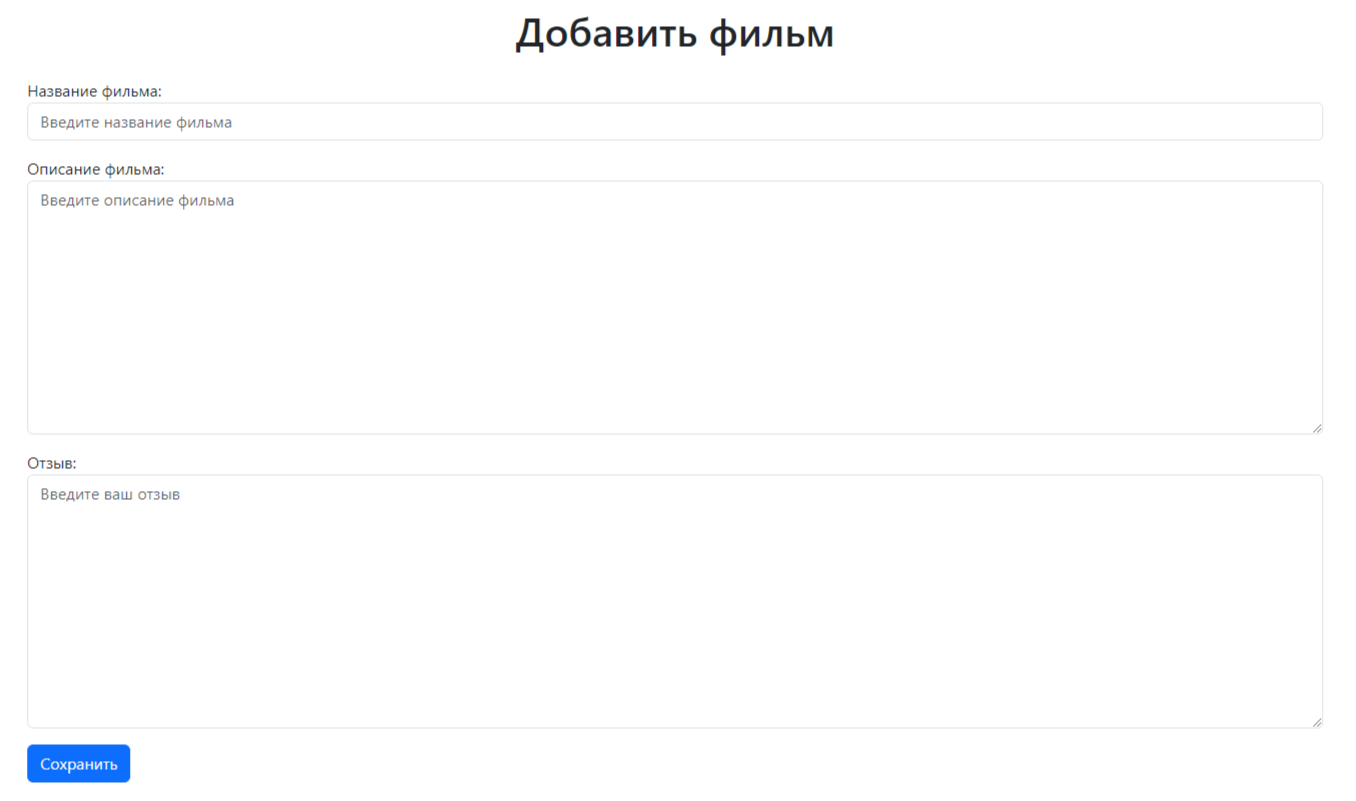
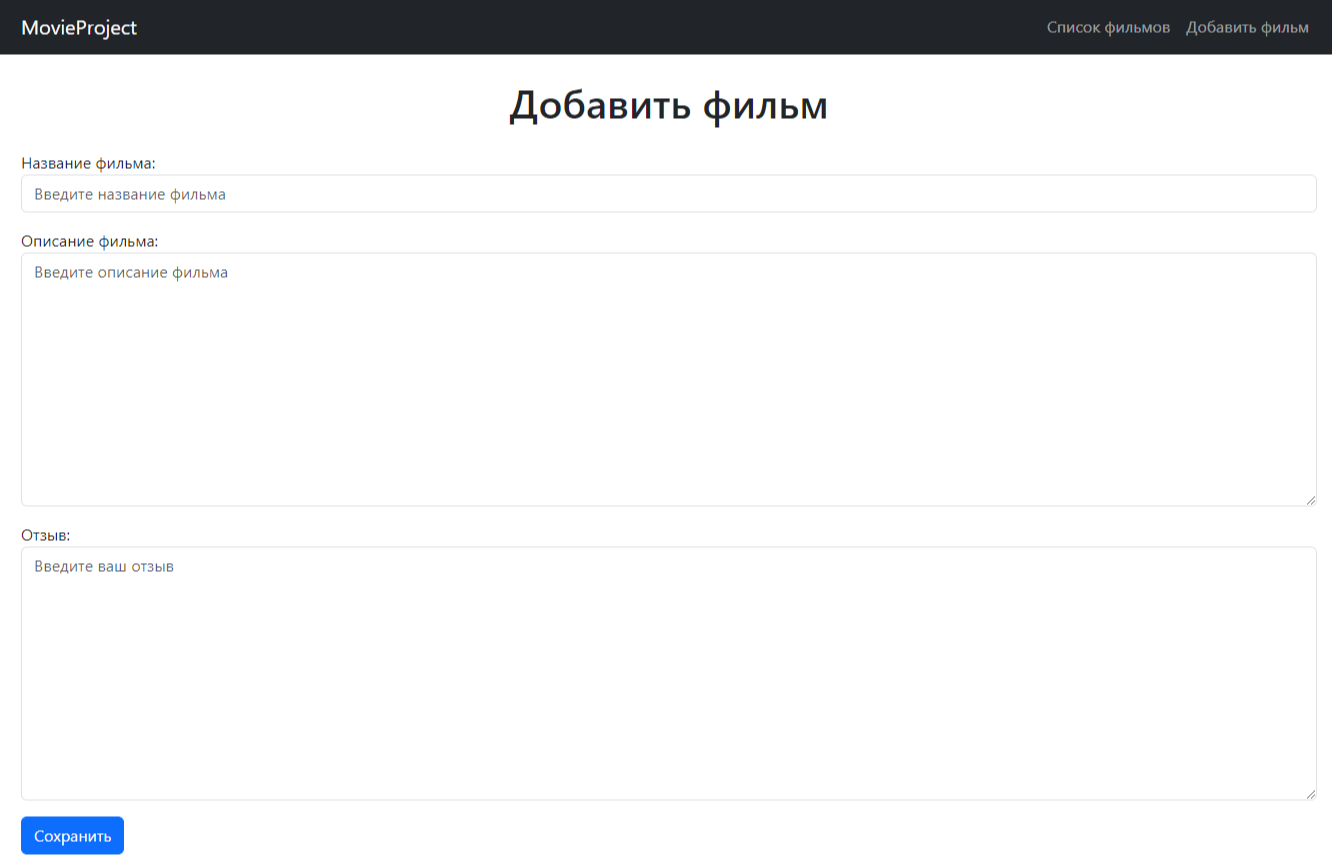
base.html and interface refinement

diff --git a/films/templates/films/film_list.html b/films/templates/films/film_list.html
@@ -1,40 +1,32 @@
-<!DOCTYPE html>
-<html lang="en">
-<head>
-    <meta charset="UTF-8">
-    <meta name="viewport" content="width=device-width, initial-scale=1.0">
-    <title>Список фильмов</title>
-    <!-- Bootstrap -->
-    <link href="https://cdn.jsdelivr.net/npm/bootstrap@5.3.0-alpha1/dist/css/bootstrap.min.css" rel="stylesheet">
-</head>
-<body>
-<div class="container mt-5">
-    <h1 class="text-center">Список фильмов</h1>
-    <table class="table table-striped mt-4">
-        <thead>
-            <tr>
-                <th>#</th>
-                <th>Название</th>
-                <th>Описание</th>
-                <th>Отзыв</th>
-            </tr>
-        </thead>
-        <tbody>
-            {% for film in films %}
-            <tr>
-                <td>{{ forloop.counter }}</td>
-                <td>{{ film.title }}</td>
-                <td>{{ film.description }}</td>
-                <td>{{ film.review }}</td>
-            </tr>
-            {% empty %}
-            <tr>
-                <td colspan="4" class="text-center">Нет фильмов</td>
-            </tr>
-            {% endfor %}
-        </tbody>
-    </table>
-    <a href="{% url 'add_film' %}" class="btn btn-primary mt-4">Добавить новый фильм</a>
-</div>
-</body>
-</html>
+{% extends 'films/base.html' %}
+
+{% block title %}Список фильмов{% endblock %}
+
+{% block content %}
+<h1 class="text-center">Список фильмов</h1>
+<table class="table table-striped mt-4">
+    <thead>
+        <tr>
+            <th>#</th>
+            <th>Название</th>
+            <th>Описание</th>
+            <th>Отзыв</th>
+        </tr>
+    </thead>
+    <tbody>
+        {% for film in films %}
+        <tr>
+            <td>{{ forloop.counter }}</td>
+            <td>{{ film.title }}</td>
+            <td>{{ film.description }}</td>
+            <td>{{ film.review }}</td>
+        </tr>
+        {% empty %}
+        <tr>
+            <td colspan="4" class="text-center">Нет фильмов</td>
+        </tr>
+        {% endfor %}
+    </tbody>
+</table>
+<a href="{% url 'add_film' %}" class="btn btn-primary mt-4">Добавить новый фильм</a>
+{% endblock %}

diff --git a/films/templates/films/base.html b/films/templates/films/base.html
@@ -1,0 +1,30 @@
+<!DOCTYPE html>
+<html lang="en">
+<head>
+    <meta charset="UTF-8">
+    <meta name="viewport" content="width=device-width, initial-scale=1.0">
+    <title>{% block title %}Мой сайт фильмов{% endblock %}</title>
+    <!-- Bootstrap -->
+    <link href="https://cdn.jsdelivr.net/npm/bootstrap@5.3.0-alpha1/dist/css/bootstrap.min.css" rel="stylesheet">
+</head>
+<body>
+<nav class="navbar navbar-expand-lg navbar-dark bg-dark">
+    <div class="container">
+        <a class="navbar-brand" href="#">MovieProject</a>
+        <div class="collapse navbar-collapse">
+            <ul class="navbar-nav ms-auto">
+                <li class="nav-item">
+                    <a class="nav-link" href="{% url 'film_list' %}">Список фильмов</a>
+                </li>
+                <li class="nav-item">
+                    <a class="nav-link" href="{% url 'add_film' %}">Добавить фильм</a>
+                </li>
+            </ul>
+        </div>
+    </div>
+</nav>
+<div class="container mt-4">
+    {% block content %}{% endblock %}
+</div>
+</body>
+</html>

diff --git a/films/templates/films/add_film.html b/films/templates/films/add_film.html
@@ -1,20 +1,12 @@
-<!DOCTYPE html>
-<html lang="en">
-<head>
-    <meta charset="UTF-8">
-    <meta name="viewport" content="width=device-width, initial-scale=1.0">
-    <title>Добавить фильм</title>
-    <!-- Bootstrap -->
-    <link href="https://cdn.jsdelivr.net/npm/bootstrap@5.3.0-alpha1/dist/css/bootstrap.min.css" rel="stylesheet">
-</head>
-<body>
-<div class="container mt-5">
-    <h1 class="text-center">Добавить фильм</h1>
-    <form method="post" class="mt-4">
-        {% csrf_token %}
-        {{ form.as_p }}
-        <button type="submit" class="btn btn-primary">Сохранить</button>
-    </form>
-</div>
-</body>
-</html>
+{% extends 'films/base.html' %}
+
+{% block title %}Добавить фильм{% endblock %}
+
+{% block content %}
+<h1 class="text-center">Добавить фильм</h1>
+<form method="post" class="mt-4">
+    {% csrf_token %}
+    {{ form.as_p }}
+    <button type="submit" class="btn btn-primary">Сохранить</button>
+</form>
+{% endblock %}

diff --git a/README.md b/README.md
@@ -6,6 +6,9 @@
 * **Созданы две html страницы:** 
   * film_list.html (список фильмов) http://127.0.0.1:8000/films/list/
   * add_film.html (добавление нового фильма) http://127.0.0.1:8000/films/add/
+* **Создан базовый шаблон с общей структурой base.html**
+  * Добавлена навигация 
+  * Улучшен внешний вид таблицы и формы
 ###### (Для запуска проекта откройте терминал и выполните команду: python manage.py runserver)
 ![Превью](2.png)
 ![Превью](1.png)
